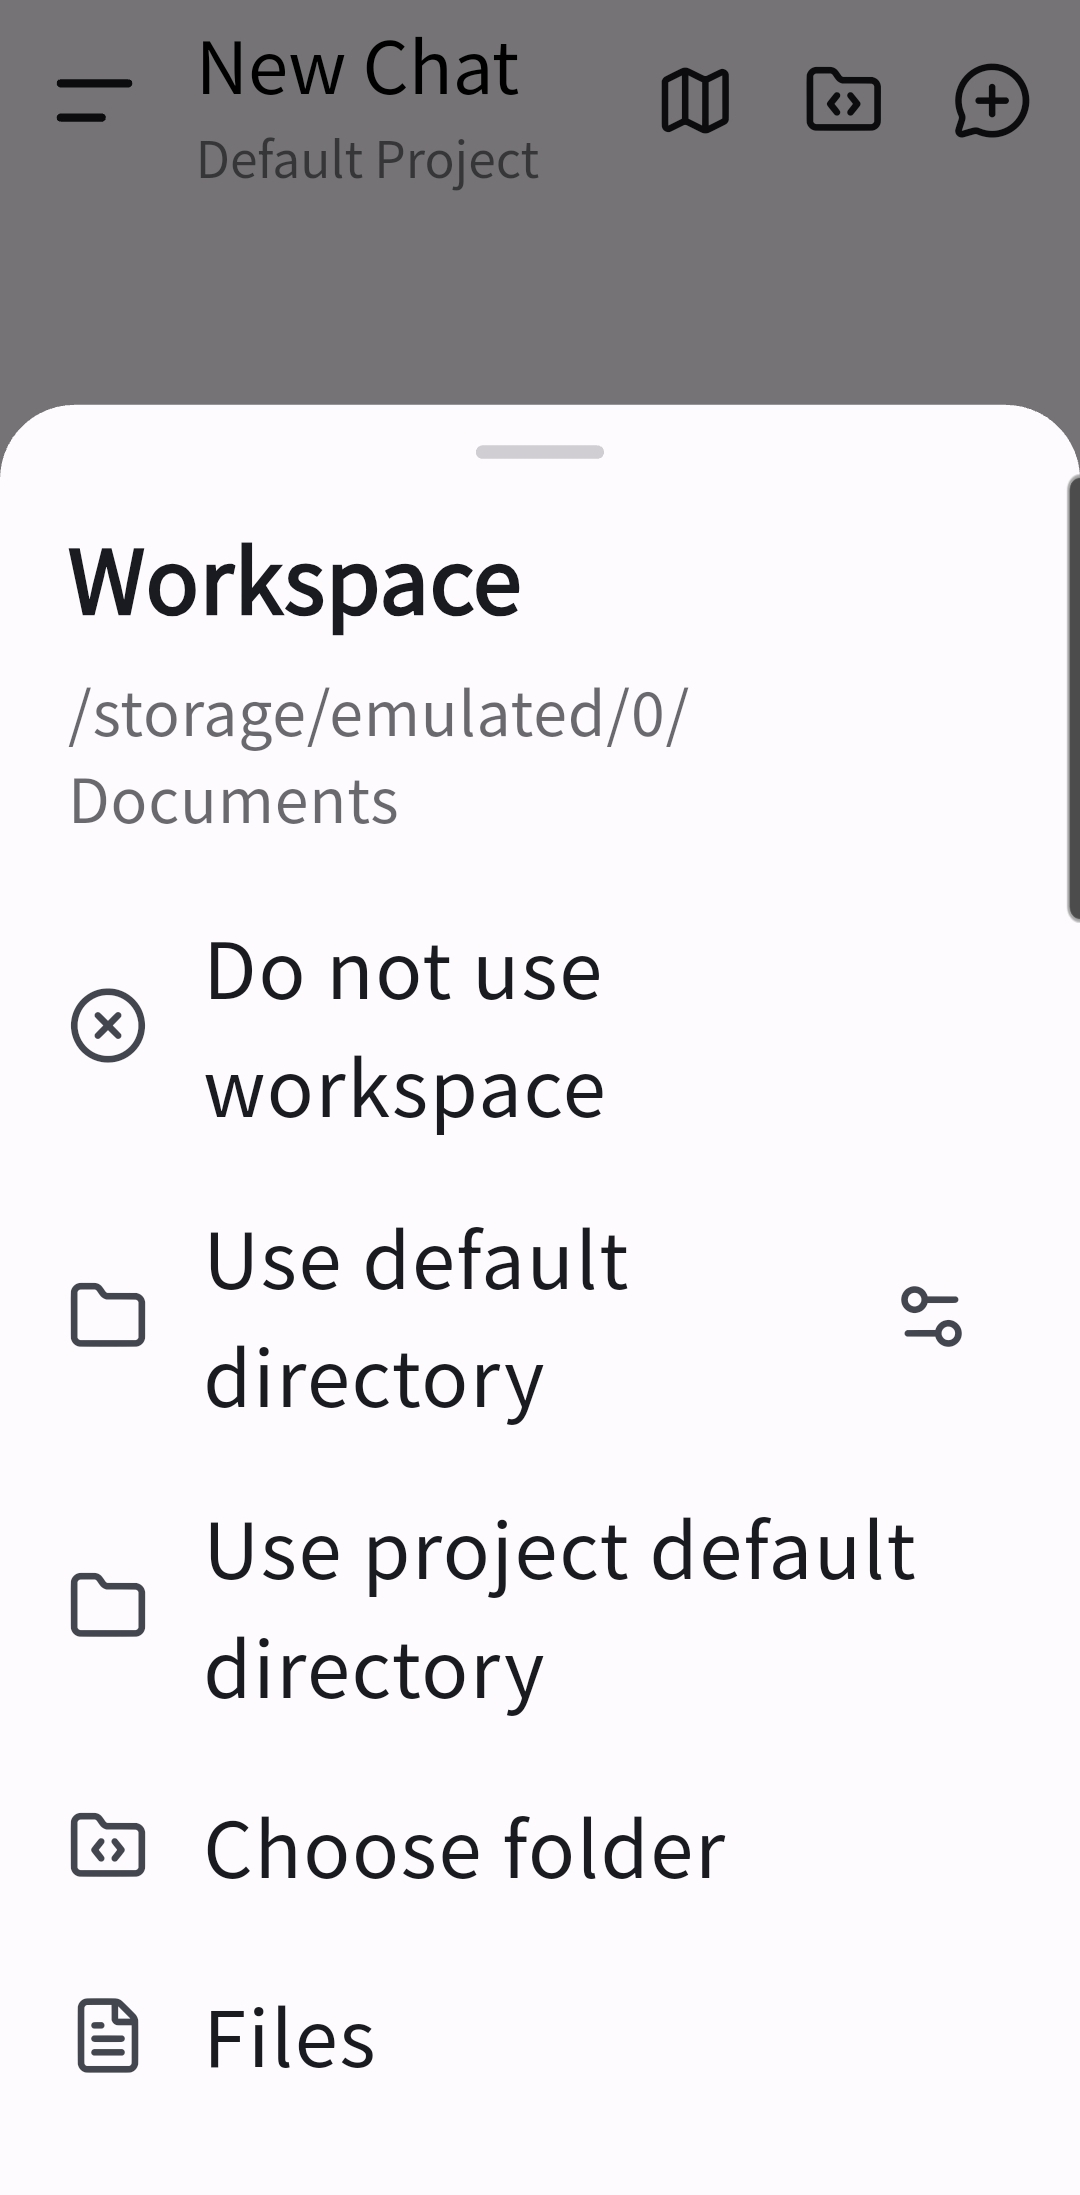
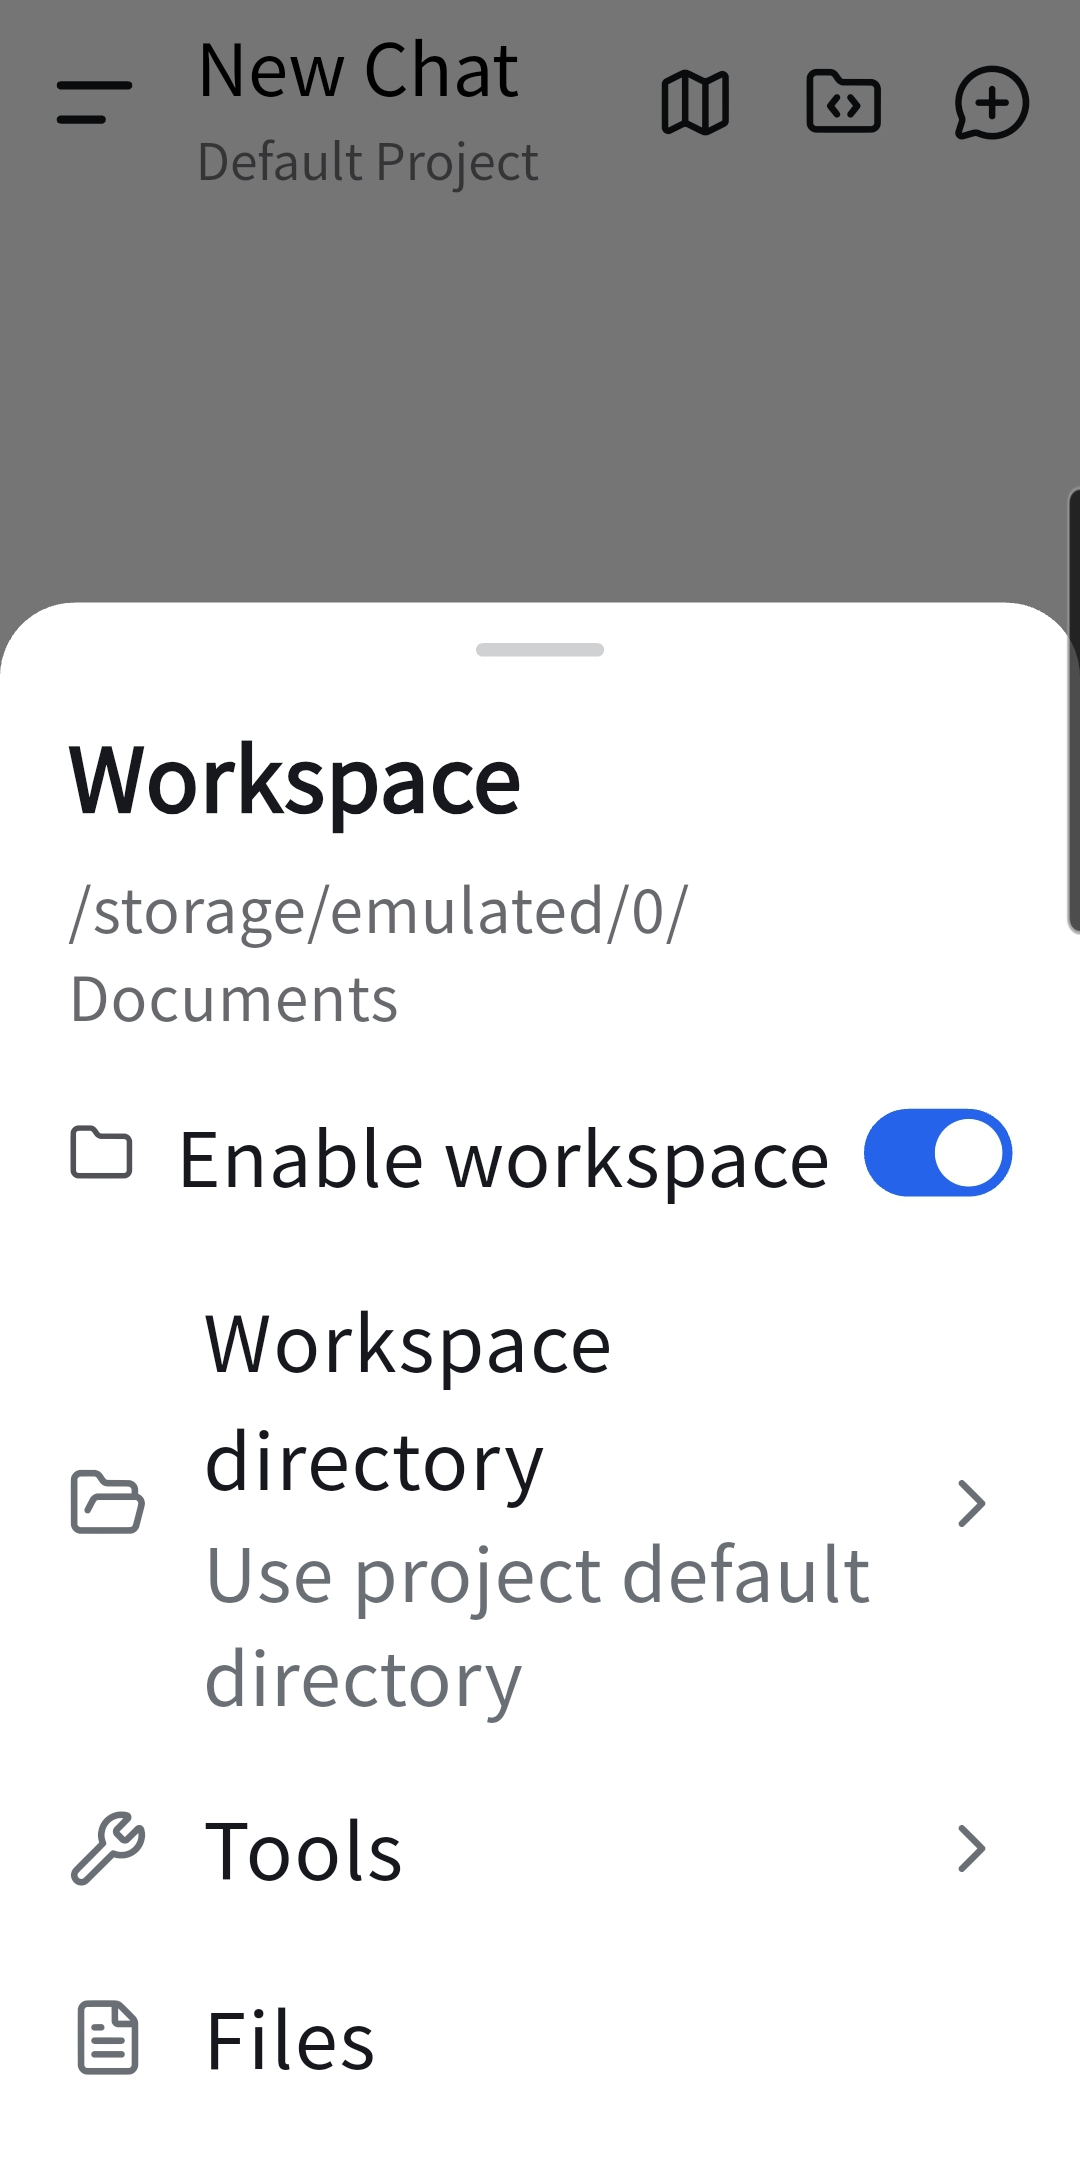
docs(readme): document multi-provider search dispatch and built-in image search
Feature both new search capabilities in the Key Features of README.md and
README_ZH_TW.MD with English-named screenshots, and refresh the workspace
screenshot.

diff --git a/README.md b/README.md
@@ -115,6 +115,36 @@ All three providers work out of the box; PubMed and Semantic Scholar accept an o
 
 ---
 
+### 🔀 Multi-Provider Search Dispatch (Fallback + Round-Robin)
+
+Select any combination of search providers and let OmniChat dispatch every search smartly:
+
+- **Multi-Select with Priority**: The list order defines the failover priority — drag & drop to rearrange it.
+- **Two Dispatch Modes**: `Fallback` (sequential failover in priority order) or `Round-Robin` (a rotating cursor spreads load across providers).
+- **Smart Failover**: On rate limits (429), timeouts, or errors, the engine automatically switches to the next provider — with a 60-second cooldown for rate-limited ones; empty results are treated as valid answers and never trigger failover.
+- **Transparent UI**: Search tool cards show the responding provider's badge and a "switched from X to Y" notice whenever failover happens.
+
+<p align="center">
+  <img src="Screenshots/Multi_Provider_Search_Dispatch.jpg" alt="Multi-Provider Search Dispatch" width="300" />
+</p>
+
+---
+
+### 🖼 Built-in Image Search MCP Server
+
+Zero-config, key-free image retrieval — the AI embeds real pictures of people, products, landmarks, and animals directly into its replies:
+
+- **Built-In & Ready**: An in-memory MCP server (`Image_Search`) ships with OmniChat and exposes a single `image_search(query, max_results)` tool (1–15 results).
+- **Inline Markdown Images**: Results are inserted straight into the reply as `![alt](url)` — no files ever touch your disk.
+- **Dual Backends**: DuckDuckGo's image index is queried first; Wikimedia Commons (including author and license info) automatically takes over when results are empty.
+- **Dead-Link Filtering**: Top candidate thumbnails are HEAD-verified (HTTP 200 + image content type) before the model ever sees them.
+
+<p align="center">
+  <img src="Screenshots/Builtin_Image_Search.jpg" alt="Built-in Image Search MCP Server" width="300" />
+</p>
+
+---
+
 ### 🛠 Customizable Input Bar Buttons
 
 Tailor the chat input bar tools to your workflow — one shared layout for mobile and desktop:
